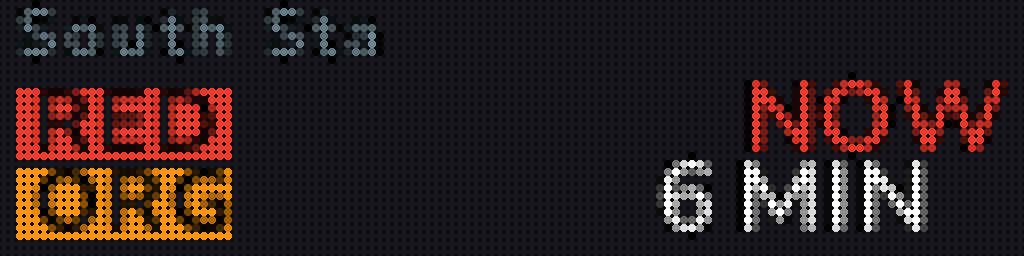
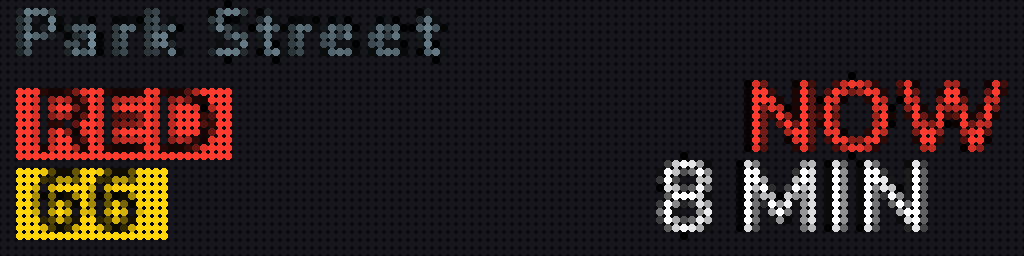
Transit v1.1

diff --git a/Tools/Transit/README.md b/Tools/Transit/README.md
@@ -2,12 +2,16 @@
 
 The next bus or train at your stop, from your city's free feed.
 
-Paste a feed link for your stop in your board's web app. It reads the MBTA predictions format and a plain list of arrivals. The first two arrivals show with a color for the route, and one that is a minute away flashes.
+Near Boston it shows the stops near your board with no setup. Anywhere else, paste a feed link for your stop in your board's web app. It reads the MBTA predictions format and a plain list of arrivals. The first two arrivals show with a color for the route, and one that is a minute away flashes.
 
 ## Settings
 
-- Feed link and stop name.
+- Feed link and stop name, for a stop of your own.
 - Route, or all.
 - Direction: both, outbound, or inbound.
 
-For Boston, use a link like https://api-v3.mbta.com/predictions?filter[stop]=place-sstat&sort=arrival_time&page[limit]=10&fields[prediction]=arrival_time,departure_time,direction_id
+## Cities
+
+- Boston, from the MBTA, within about 37 miles of downtown.
+
+For a stop of your own in Boston, use a link like https://api-v3.mbta.com/predictions?filter[stop]=place-sstat&sort=arrival_time&page[limit]=10&fields[prediction]=arrival_time,departure_time,direction_id
